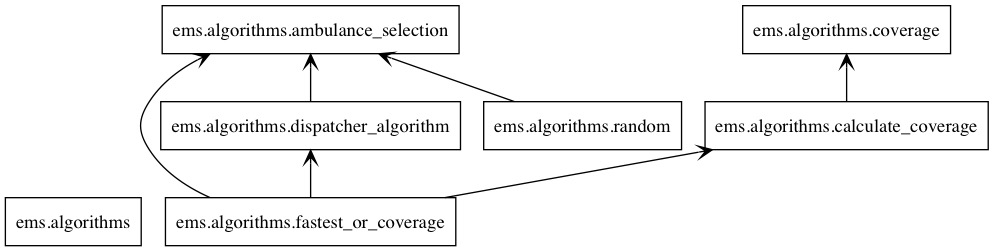
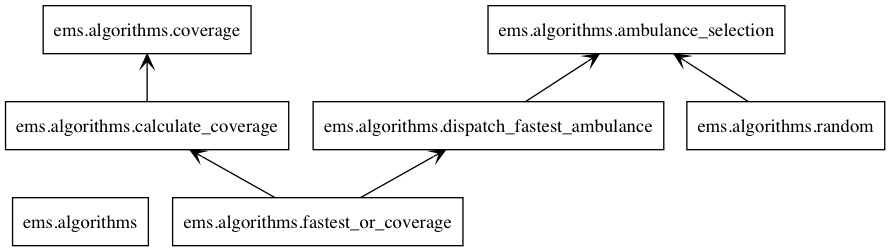
refactoring and renaming components

diff --git a/ems/algorithms/dispatch_fastest_ambulance.py b/ems/algorithms/dispatch_fastest_ambulance.py
@@ -18,7 +18,7 @@ from ems.models.case import Case
 from ems.models.demand import Demand
 
 
-# An implementation of a "fastest travel time" algorithm from a base to
+# An implementation of a "fastest travel time" ambulance_select from a base to
 # the demand point closest to a case
 
 class BestTravelTimeAlgorithm(AmbulanceSelectionAlgorithm):
